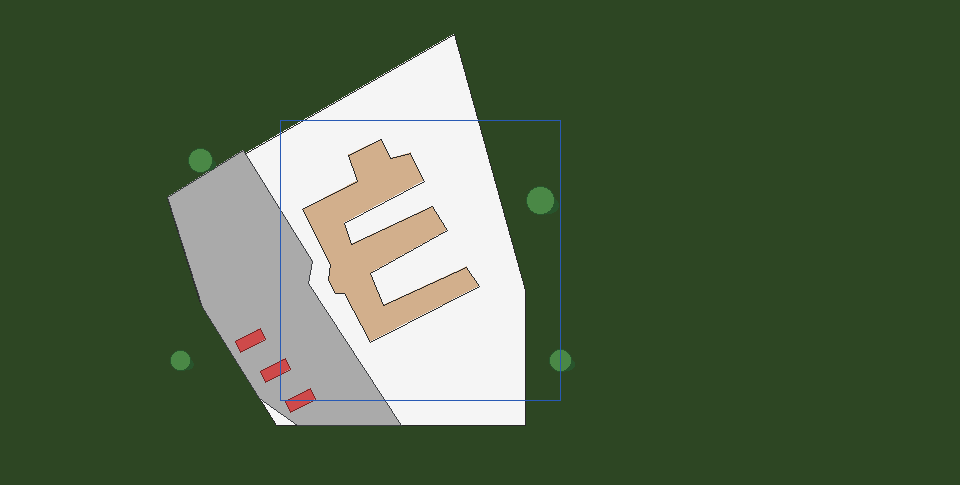
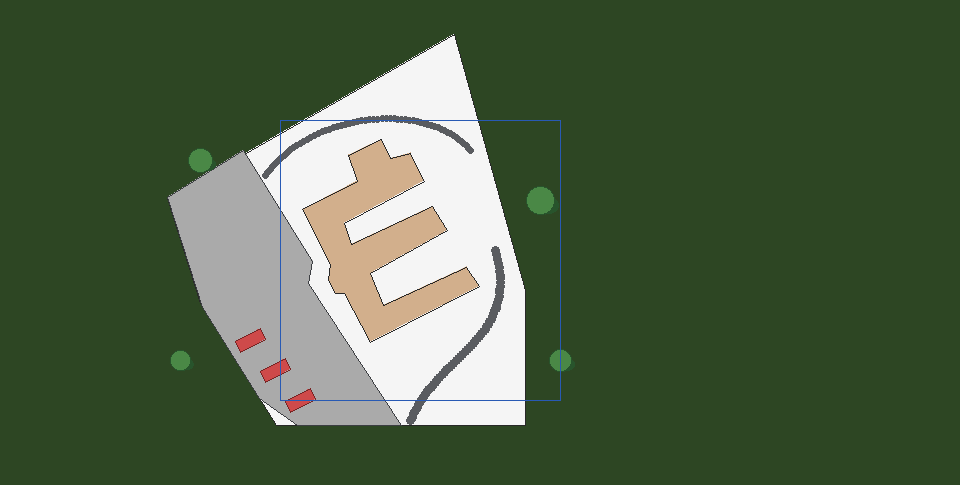
scene: comment Bezier sampling, reroute ROADs onto visible pad, document scene format

diff --git a/src/raster.cpp b/src/raster.cpp
@@ -119,6 +119,12 @@ void fillEllipse(Canvas& c, Point center, int rx, int ry, Color col) {
     }
 }
 
+// Cubic Bezier in Bernstein form:
+//   B(t) = (1-t)^3 P0 + 3(1-t)^2 t P1 + 3(1-t) t^2 P2 + t^3 P3,  t in [0, 1]
+// P0/P3 are the endpoints (the curve passes through them); P1/P2 are control
+// points that only pull the curve toward them (the "handles"). The four
+// weights b0..b3 always sum to 1, so every sample is a convex blend of the
+// control points and stays inside their hull.
 Point bezierPoint(const Point& p0, const Point& p1, const Point& p2,
                   const Point& p3, double t) {
     double u = 1.0 - t;
@@ -130,6 +136,10 @@ Point bezierPoint(const Point& p0, const Point& p1, const Point& p2,
             b0 * p0.y + b1 * p1.y + b2 * p2.y + b3 * p3.y};
 }
 
+// Flatten the curve into a polyline of `segments + 1` points by evaluating
+// B(t) at uniform steps t = i / segments (i = 0..segments). Uniform t is not
+// uniform arc length, but at 60 samples the chords are short enough that the
+// result looks smooth and Cohen-Sutherland can clip each chord independently.
 std::vector<Point> sampleBezier(const Point& p0, const Point& p1,
                                 const Point& p2, const Point& p3,
                                 int segments) {
@@ -142,6 +152,13 @@ std::vector<Point> sampleBezier(const Point& p0, const Point& p1,
     return out;
 }
 
+// Thick stroke built from a 1-px Bresenham centerline plus round "joints":
+//   1. drawLine() joins each pair of consecutive samples.
+//   2. A filled circle of radius thickness/2 is stamped on every sample.
+// The circles widen the line to `thickness` pixels and also fill the wedge
+// gaps that appear on the outside of a bend. main.cpp passes ONE short chord
+// (2 points) per call after clipping it, so each call stamps circles at both
+// ends; neighbouring chords overlap there and the stroke stays continuous.
 void drawThickPolyline(Canvas& c, const std::vector<Point>& pts,
                        double thickness, Color col) {
     if (pts.empty()) return;

diff --git a/README.md b/README.md
@@ -72,10 +72,14 @@ line, fill, curve, and clipping code.
 | Building / pad / lawn / parking fill | Scanline polygon fill (even-odd) | `src/raster.cpp` |
 | Tree canopy | Midpoint circle + offset shadow ellipse | `src/raster.cpp` |
 | Car | Rotated-rectangle polygon transform | `src/raster.cpp` |
-| Curved road / path | Cubic Bézier sampling, thickened stroke | `src/raster.cpp` |
+| Bézier roads / scene file — @RichardJesse | Cubic Bézier sampled at 60 points, each chord clipped then stroked with a Bresenham centerline + round joints; roads read from `ROAD` lines in the scene file | `src/raster.cpp`, `assets/campus.scene` |
 | Zoom / line clip | Cohen–Sutherland | `src/clipping.cpp` |
 | Zoom / polygon clip | Sutherland–Hodgman | `src/clipping.cpp` |
 | Scene input | Plain-text scene loader | `src/scene.cpp` |
+
+**Design decision (unchanged):** cars and trees stay simplified 2D symbols
+(rotated rectangles and filled circles). Phase 1 is about the 2D graphics
+pipeline; real 3D vehicles and vegetation belong to later SketchUp phases.
 
 These map to the proposal’s graphics themes (polygons, lines, ellipses,
 transforms, viewing/clipping) while Phase 2+ move into fuller 3D SketchUp
@@ -148,10 +152,16 @@ PAD      site_pad  454 34  166 198  200 303  276 425  525 425  525 290
 LAWN     planter   222 200  266 295  274 297  277 290  230 202
 PARKING  plaza     166 197  202 307  258 398  297 425  401 425
 BUILDING e_bldg    380 139  348 154  ...      # footprint (see campus.scene)
-ROAD     access    200 210 260 280 320 360 390 420  10
+ROAD     access    410 420 440 350 520 340 495 250  8   # cubic Bezier
 TREE     t1        200 160 12
 CAR      c1        250 340 28 12 -28
 ```
+
+**Adding a road.** `ROAD name x0 y0 x1 y1 x2 y2 x3 y3 [width]` is a cubic
+Bézier: the curve starts at P0, ends at P3, and is pulled toward the handles
+P1 and P2 (it does not pass through them). Roads are painted before parking and
+buildings, so keep them on the pad/lawn or they are hidden. The header of
+`assets/campus.scene` has a worked example.
 
 `assets/campus.scene` was digitized from `docs/sketchup_top.png` (half-scale
 pixel coordinates). Lines beginning with `#`, and inline `# ...` comments, are
